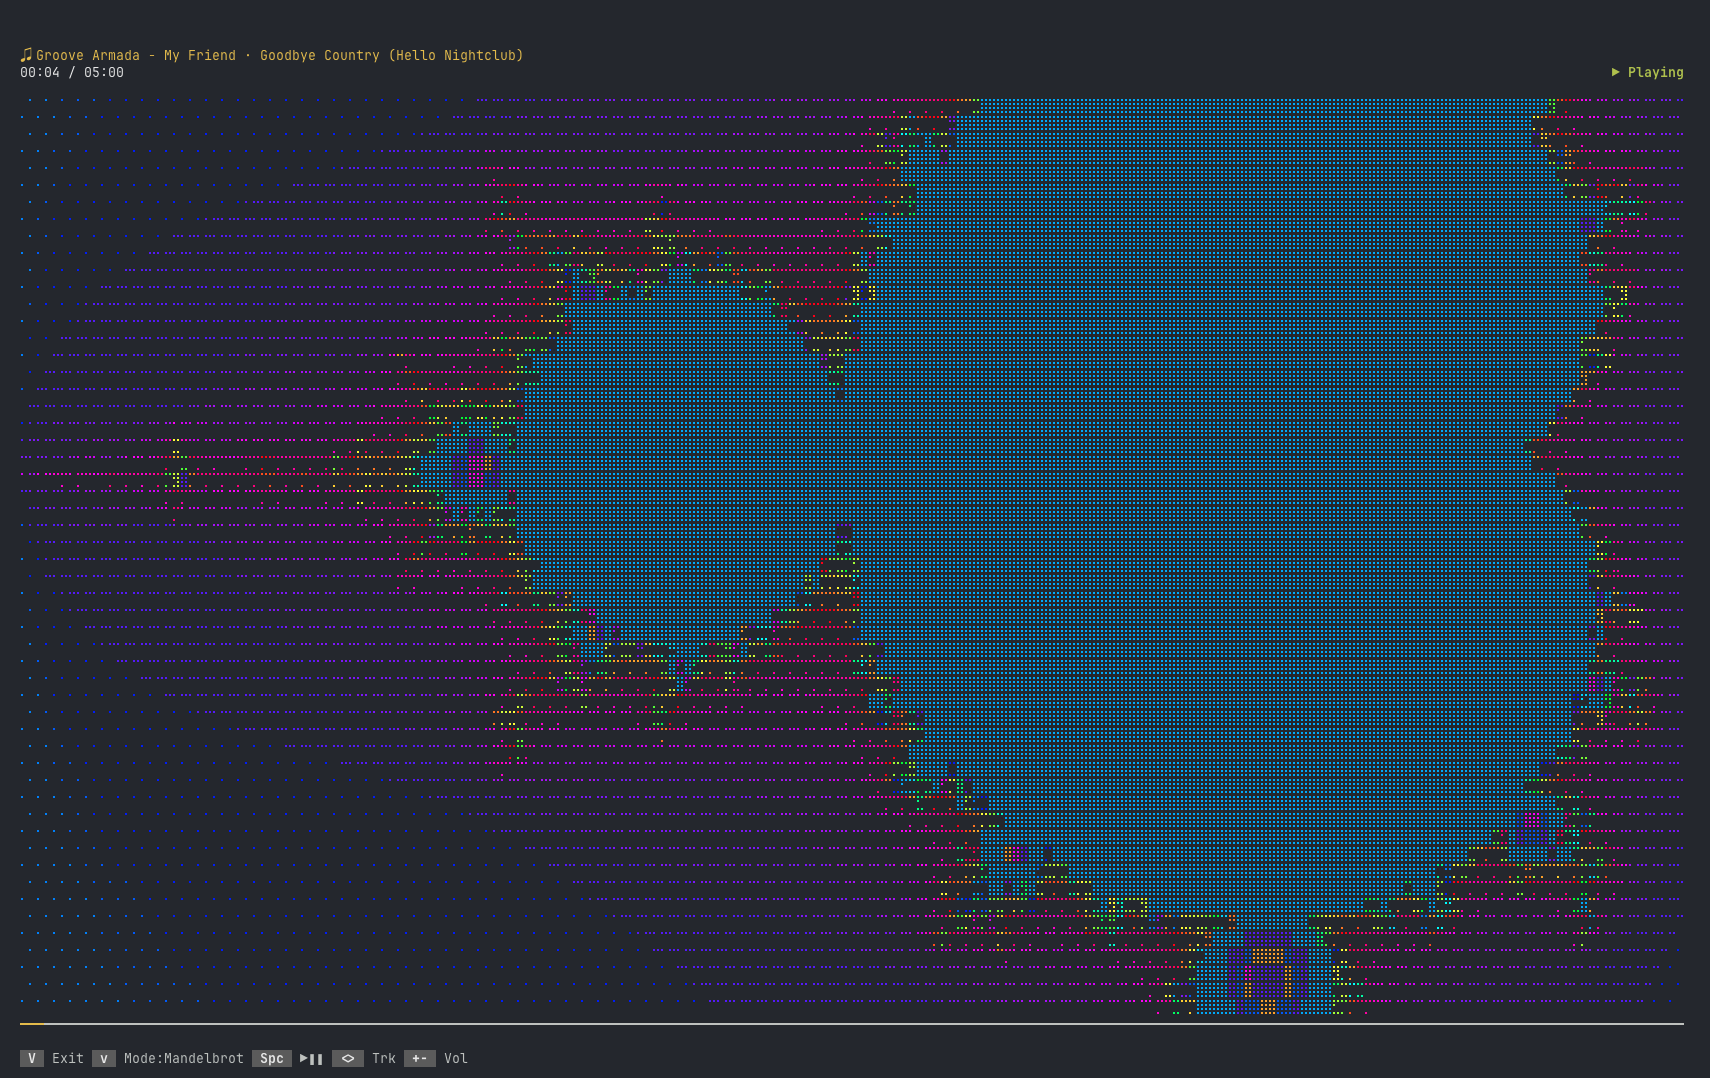
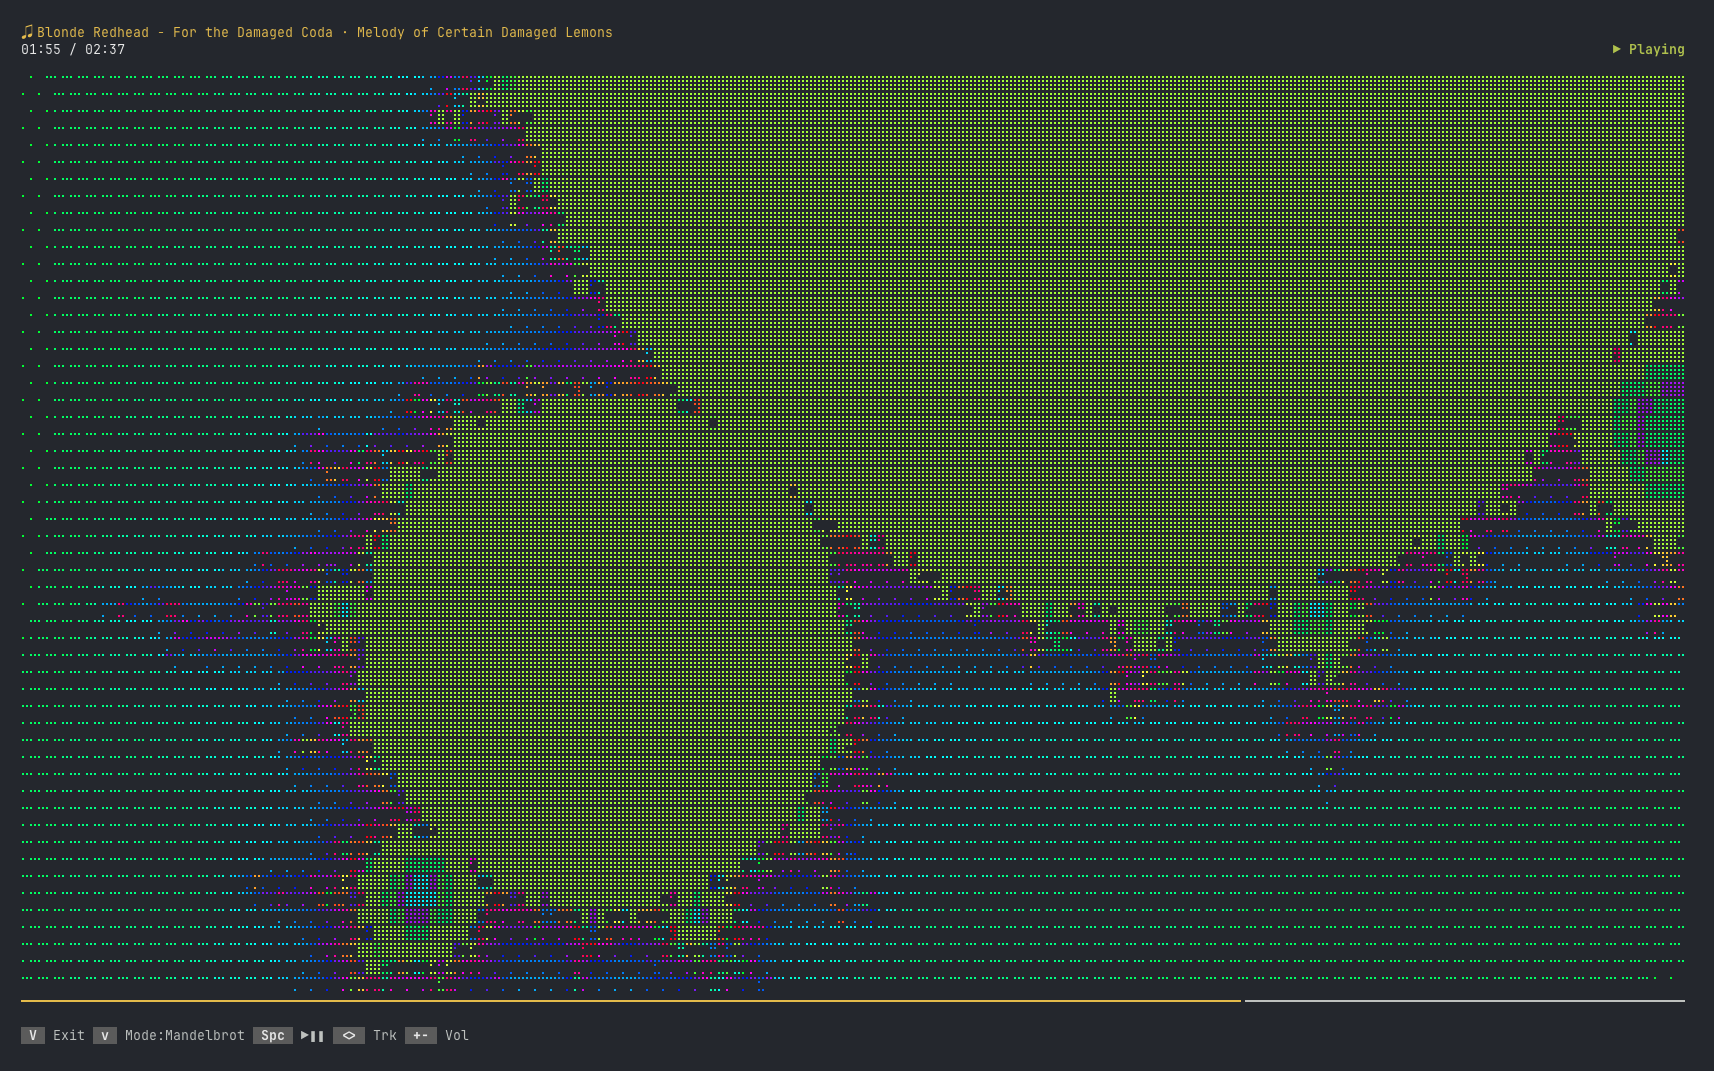
Update screenshot and move install instructions above features

Changed region(s): [[0.0, 0.0308, 0.9918, 1.0]]

diff --git a/README.md b/README.md
@@ -4,6 +4,18 @@ A psychedelic Mandelbrot set visualizer plugin for [cliamp](https://www.cliamp.s
 
 ![Screenshot](screenshot.png)
 
+## Install
+
+```bash
+cliamp plugins install mikkel-bergmann/cliamp-mandelbrot
+```
+
+Start `cliamp` and press `v` to cycle through the visualizers until `Mandelbrot` appears.
+
+```sh
+cliamp plugins remove mandelbrot
+```
+
 ## Features
 
 - **Continuous zoom** into four classic Mandelbrot locations (Sea Horse Valley, Elephant Valley, Seahorse spiral arm, Antenna mini-brot), cycling automatically when the interior fills the screen
@@ -14,16 +26,6 @@ A psychedelic Mandelbrot set visualizer plugin for [cliamp](https://www.cliamp.s
 - **Period-coloured interior** — Brent cycle detection captures the orbit period of each interior point; main cardioid, period-2 bulb, period-4 spirals etc. each get a distinct cycling hue
 - **30-colour psychedelic palette** — ANSI 256-colour cycling through red → orange → yellow → green → cyan → blue → magenta and back
 - **Silence detection** — animation freezes when no audio is playing and resumes instantly
-
-## Installation
-
-Copy `mandelbrot.lua` to your cliamp plugins directory:
-
-```bash
-cp mandelbrot.lua ~/.config/cliamp/plugins/
-```
-
-Then launch cliamp and press `v` to cycle to the Mandelbrot visualizer.
 
 ## Performance
 
